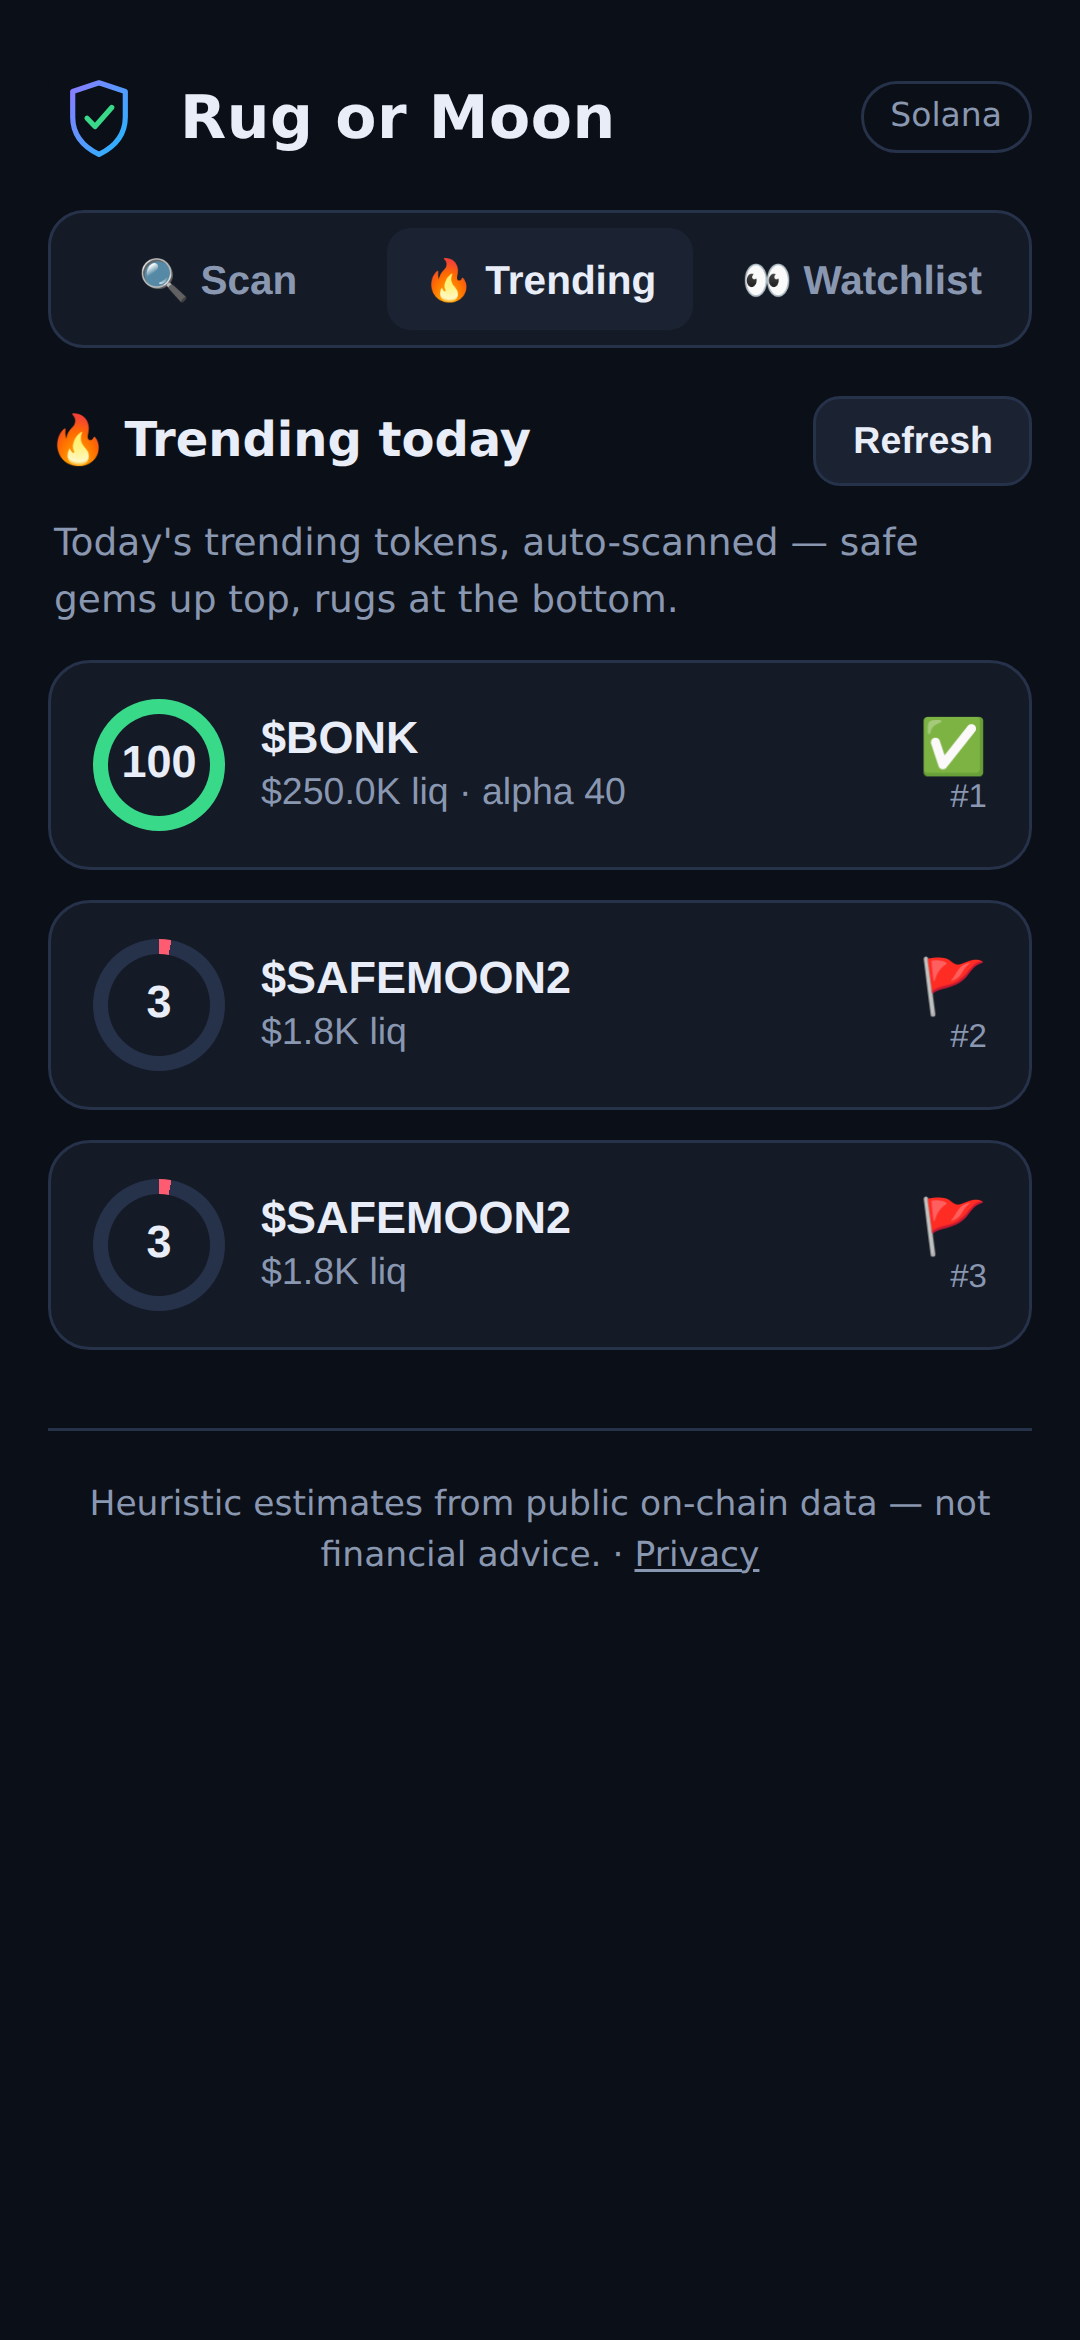
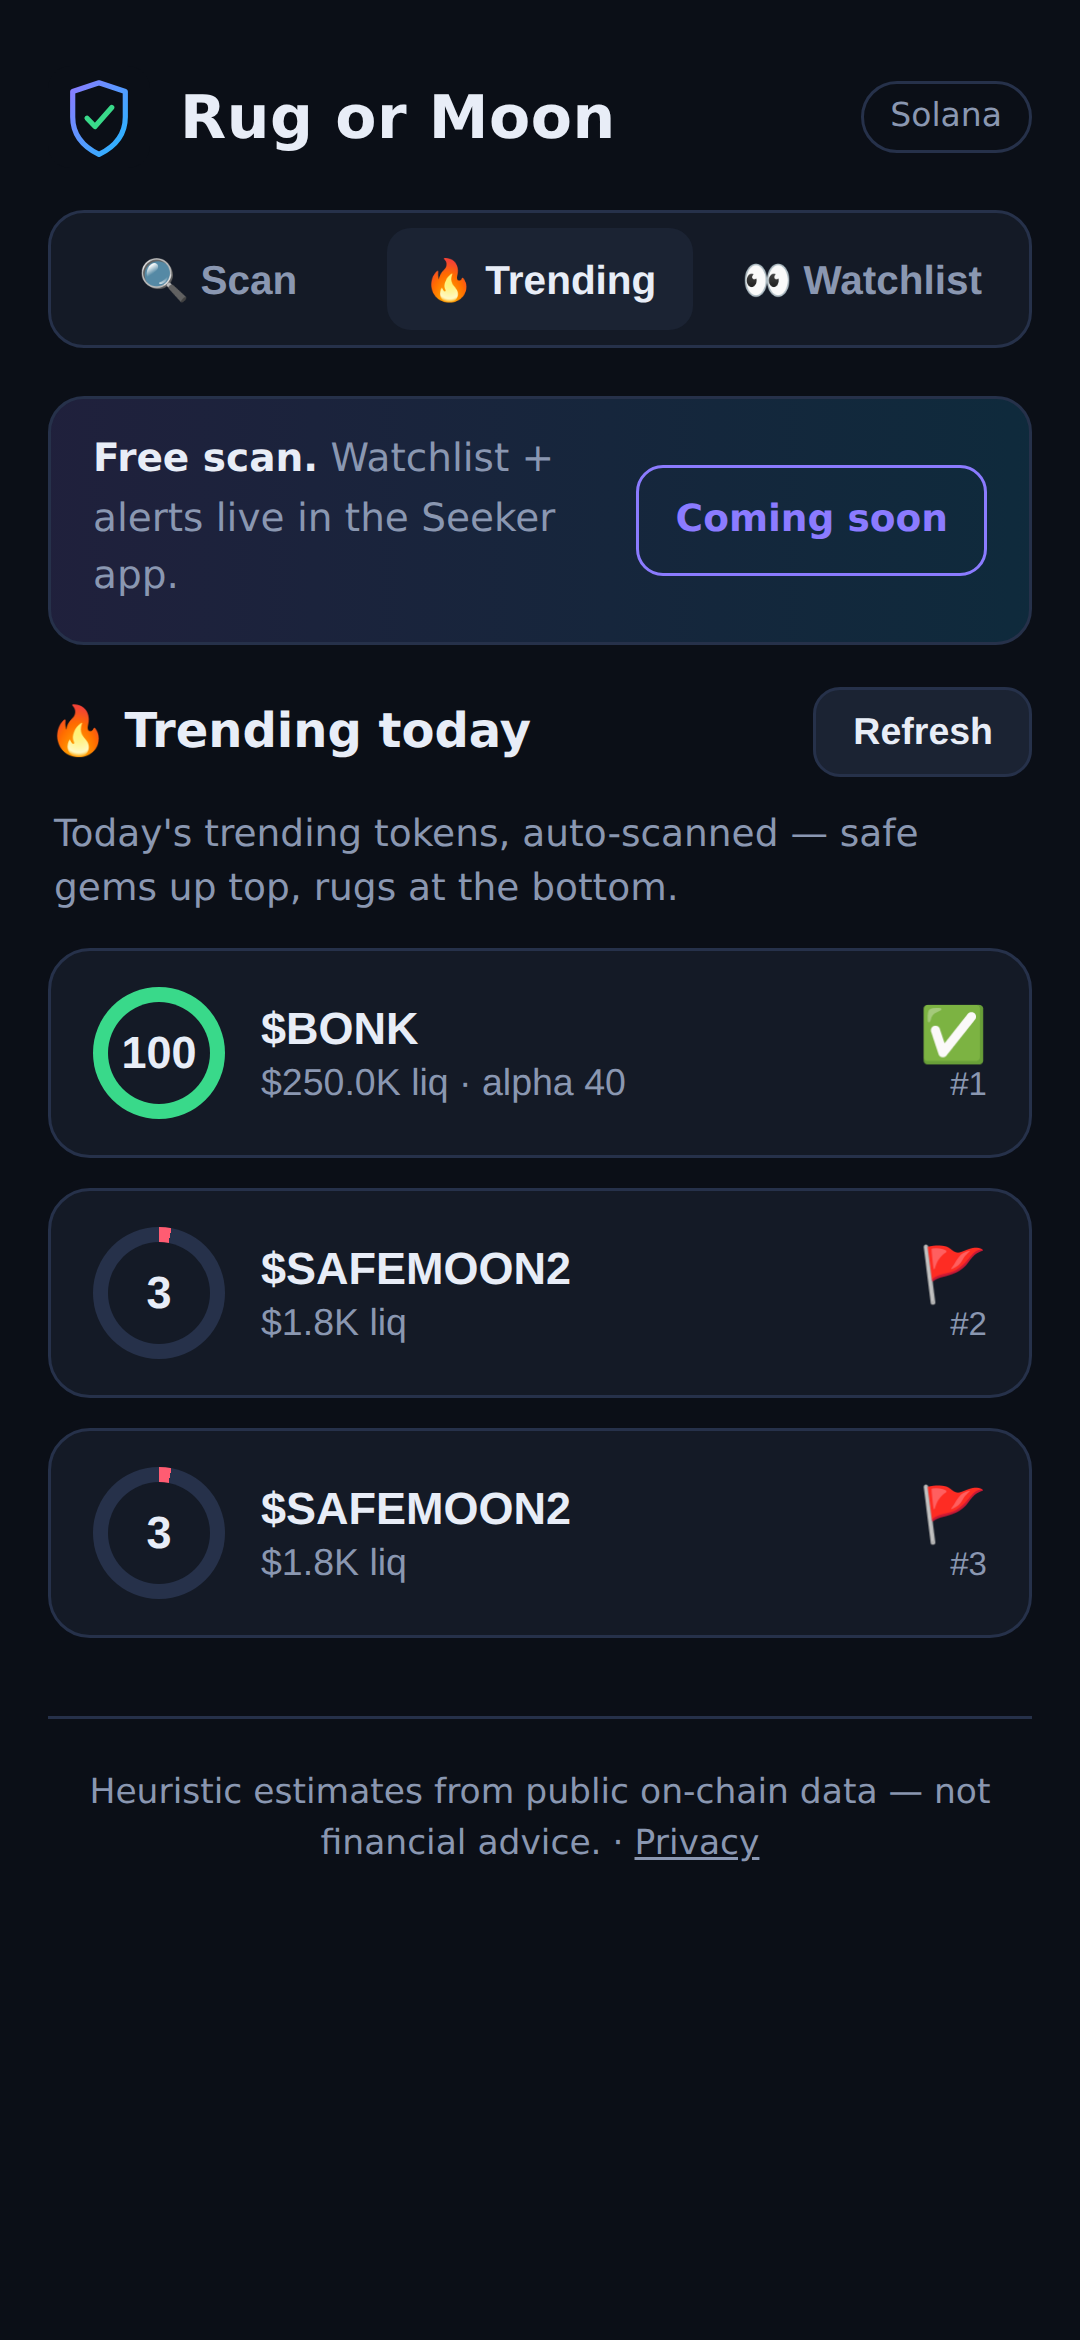
Rug or Moon: reframe web as a Seeker-exclusive funnel
Pure-Seeker-exclusive strategy: the public web build is now a teaser that
drives to the dApp Store, not the full product.

- Scan + Trending stay free hooks (share cards still spread them).
- Watchlist + alerts are gated on web: the Watch button and Watchlist tab show
  a "Seeker exclusive" lock screen pitching real-time alerts / unlimited
  watching / smart-money exit warnings, with a store CTA. Nothing is saved on
  web.
- A slim funnel banner under the tabs ("Free scan. Watchlist + alerts live in
  the Seeker app.") with the same CTA.
- The installed Seeker edition (/?edition=seeker) unlocks the full watchlist as
  before — banner and gate are hidden there.
- New STORE_URL config: links the CTA to your listing after publishing; until
  then it honestly reads "coming soon".

Smoke test now verifies both sides: web shows the funnel gate and saves
nothing; the Seeker edition actually saves, lists, and shows unlimited. All 5
suites + browser smoke green.

Claude-Session: https://claude.ai/code/session_01P4YdgycSQey1q4cuRtSLa3

diff --git a/rug-or-moon/index.html b/rug-or-moon/index.html
@@ -65,6 +65,22 @@
     background:var(--card2);border:1px solid var(--line);color:var(--txt);padding:11px 16px;border-radius:12px;font-size:13.5px;
     max-width:90vw;opacity:0;pointer-events:none;transition:opacity .2s,transform .2s;z-index:50}
   #toast.show{opacity:1;transform:translateX(-50%) translateY(0)}
+  .funnel{display:flex;align-items:center;gap:10px;background:linear-gradient(90deg,rgba(139,123,255,.16),rgba(34,184,255,.16));
+    border:1px solid var(--line);border-radius:12px;padding:11px 14px;margin-bottom:14px;font-size:13px}
+  .funnel b{color:var(--txt)} .funnel span{color:var(--dim)}
+  .funnel a{margin-left:auto;white-space:nowrap;color:#04121a;background:linear-gradient(90deg,#8b7bff,#22b8ff);
+    font-weight:800;border-radius:9px;padding:8px 12px;text-decoration:none;font-size:12.5px}
+  .funnel a.soon{background:transparent;color:var(--accent);border:1px solid var(--accent)}
+  .lock{text-align:center;padding:26px 18px}
+  .lock .big{font-size:40px}
+  .lock h3{margin:12px 0 6px;font-size:19px}
+  .lock p{color:var(--dim);font-size:14px;margin:0 auto 18px;max-width:340px}
+  .lock ul{list-style:none;padding:0;margin:0 auto 20px;max-width:300px;text-align:left}
+  .lock li{padding:7px 0;font-size:14px;color:var(--txt)}
+  .cta{display:inline-block;color:#04121a;background:linear-gradient(90deg,#8b7bff,#22b8ff);font-weight:800;
+    border-radius:12px;padding:14px 22px;text-decoration:none;font-size:15px}
+  .cta-soon{display:inline-block;color:var(--accent);border:1px solid var(--accent);border-radius:12px;
+    padding:14px 22px;font-weight:800;font-size:15px}
   .disc{color:var(--dim);font-size:11.5px;margin-top:16px;line-height:1.5}
   .msg{color:var(--dim);text-align:center;padding:30px 10px}
   .spin{display:inline-block;width:18px;height:18px;border:2px solid var(--line);border-top-color:var(--accent);
@@ -151,6 +167,9 @@ const $$ = s => [...document.querySelectorAll(s)];
 // feeBps tiers: 10 = 0.1%, 50 = 0.5%, 100 = 1%. Fees accrue to this referral
 // account (manage/claim at referral.jup.ag).
 const JUP_REFERRAL = "?referrer=D7to5YzRTeGEKzNXW5qzZPT2dzQeFgzwdAnRj3m65x3A&feeBps=50";
+// Your Seeker dApp Store listing URL — set this after publishing. Until then the
+// funnel CTA honestly says "coming soon" instead of linking somewhere broken.
+const STORE_URL = "";
 // Freemium: on the web, users watch up to this many tokens. The Seeker dApp
 // Store edition unlocks unlimited watching — that's the exclusive perk.
 const FREE_WATCH_LIMIT = 5;
@@ -201,6 +220,14 @@ function refreshWCount(){ const n = loadWatch().length; $("#wcount").textContent
 function canWatch(count){
   if (IS_PREMIUM) return { ok:true, remaining:Infinity };
   return { ok: count < FREE_WATCH_LIMIT, remaining: Math.max(0, FREE_WATCH_LIMIT - count) };
+}
+
+// The "get it on Seeker" call-to-action. Links to the store once STORE_URL is
+// set (after publishing); until then it honestly reads "coming soon".
+function storeCta(){
+  return STORE_URL
+    ? `<a class="cta" href="${STORE_URL}" target="_blank" rel="noopener">⬇ Get it on the Seeker dApp Store</a>`
+    : `<div class="cta-soon">✦ Coming soon on the Seeker dApp Store</div>`;
 }
 
 // Snapshot only the fields the diff needs, plus display bits.
@@ -320,13 +347,14 @@ function renderScan(d, token){
       </div>
       <a class="buy" href="${jup}" target="_blank" rel="noopener">Buy on Jupiter ↗</a>
       <div class="btnrow">
-        <button class="watch ${watching?"on":""}" id="watchBtn">${watching?"★ Watching":"☆ Watch"}</button>
+        <button class="watch ${watching?"on":""}" id="watchBtn">${IS_SEEKER?(watching?"★ Watching":"☆ Watch"):"☆ Watch on Seeker"}</button>
         <button class="watch" id="shareBtn">↗ Share verdict</button>
       </div>
       <p class="disc">${esc(d.disclaimer||"Heuristic estimate. Not financial advice.")}</p>
     </div>`;
   window.__lastScan = { d, token }; // for the smoke test
   $("#watchBtn").onclick = async () => {
+    if (!IS_SEEKER){ showTab("watch"); return; } // web → the funnel gate
     const res = toggleWatch(d, token);
     if (res.blocked){ alert(res.reason); return; }
     if (res.watching) await ensureNotifyPermission();
@@ -455,6 +483,22 @@ function wireRows(container){
 const wout = $("#wout");
 
 function renderWatch(items){
+  // On the web this is the funnel gate — watchlist + alerts are the Seeker
+  // exclusive. Scan & Trending stay free hooks; the sticky feature lives in the app.
+  if (!IS_SEEKER){
+    wout.innerHTML = `<div class="card lock">
+      <div class="big">👀🔒</div>
+      <h3>Watchlist & alerts are a Seeker exclusive</h3>
+      <p>Save tokens and get alerted the moment a watched token's safety drops, smart money exits, or a new red flag appears.</p>
+      <ul>
+        <li>🔔 Real-time safety alerts</li>
+        <li>♾ Unlimited watched tokens</li>
+        <li>📉 Smart-money exit warnings</li>
+      </ul>
+      ${storeCta()}
+    </div>`;
+    return;
+  }
   const gate = canWatch(items.length);
   const quota = IS_SEEKER
     ? `<p class="quota">✦ Seeker Edition — unlimited watching unlocked.</p>`
@@ -553,6 +597,17 @@ refreshWCount();
 if (IS_SEEKER){
   const tag = $("header .tag");
   if (tag){ tag.textContent = "✦ Seeker Edition"; tag.classList.add("seeker"); }
+} else {
+  // Web = teaser: a gentle funnel banner under the tabs pointing to the app.
+  const banner = document.createElement("div");
+  banner.className = "funnel";
+  const cta = STORE_URL
+    ? `<a href="${STORE_URL}" target="_blank" rel="noopener">Get it ↗</a>`
+    : `<a class="soon">Coming soon</a>`;
+  banner.innerHTML = `<div><b>Free scan.</b> <span>Watchlist + alerts live in the Seeker app.</span></div>${cta}`;
+  $(".tabs").after(banner);
+  $("#wref").style.display = "none"; // Re-scan is meaningless on the locked web gate
+  $("#whint").style.display = "none";
 }
 
 // Deep-link support: /?token=... scans on load (great for shared links).

diff --git a/rug-or-moon/README.md b/rug-or-moon/README.md
@@ -90,12 +90,15 @@ Deploy as its own **Vercel** project (root = `rug-or-moon/`):
    Configured via `JUP_REFERRAL` in `index.html`; fees accrue to the referral
    account (manage/claim at referral.jup.ag). Change `feeBps` to 10 (0.1%) or
    100 (1%) to taste.
-3. **Seeker-exclusive premium** — the watchlist caps at 5 tokens on the web, but
-   the **Seeker dApp Store edition unlocks unlimited watching**. The app detects
-   the installed edition via its launch URL (`/?edition=seeker`) or an
-   `android-app://` referrer and latches it in `localStorage` (see `detectSeeker`
-   in `index.html`). This is a soft unlock — the real exclusivity is that the APK
-   ships only on the dApp Store. A true paid tier would still need auth + payment.
+3. **Seeker-exclusive funnel** — the web build is a **teaser that funnels to the
+   dApp Store**: Scan + Trending are free hooks (and the share cards spread them),
+   but the sticky **watchlist + alerts are gated** behind a "Get it on Seeker"
+   CTA. The installed Seeker edition (detected via the `/?edition=seeker` launch
+   URL or an `android-app://` referrer — see `detectSeeker` in `index.html`)
+   unlocks the full experience. Set **`STORE_URL`** in `index.html` to your dApp
+   Store listing after publishing; until then the CTA honestly reads "coming
+   soon". This is a soft gate — the real exclusivity is that the APK ships only on
+   the dApp Store.
 
 Honest ceiling: ~150k Seeker devices is niche scale — treat this as "ship a sharp
 useful app, plausibly earn a grant + modest referral revenue," not a unicorn.
